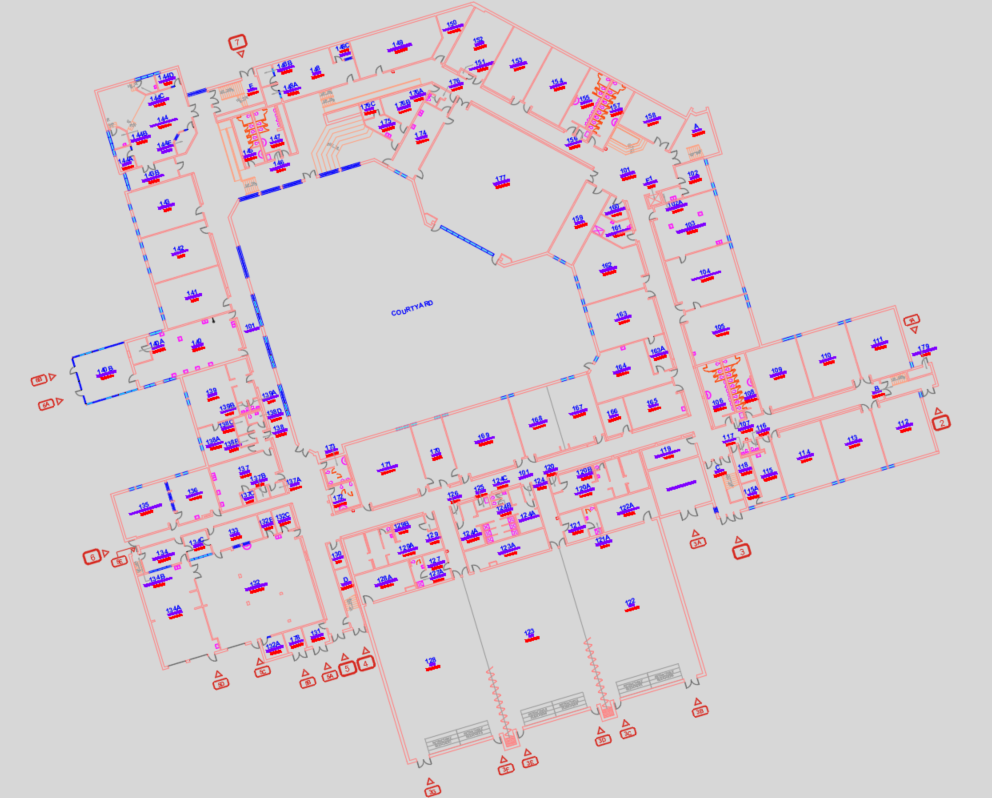
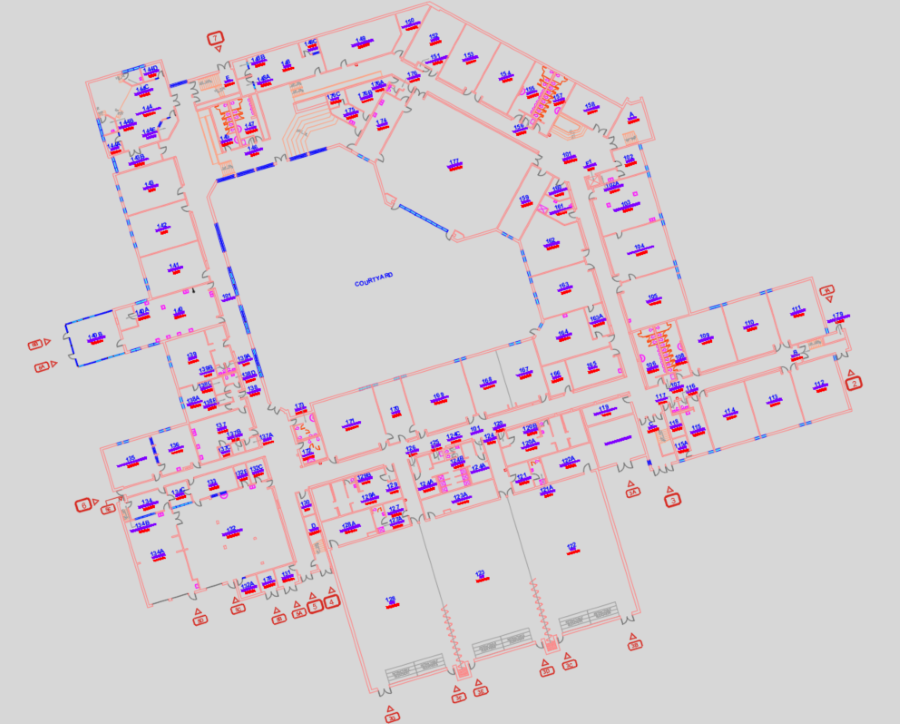
responsive updates

diff --git a/style.css b/style.css
@@ -293,6 +293,22 @@ p, .left2 ol li, .right1 ol li, .left2 ul li, .right1 ul li {
   text-decoration: none;
 }
 
+.left1 .View {
+  margin-left: auto;
+  margin-right: auto;
+  width: 100%;
+  display: flex;
+  justify-content: center;
+  flex-wrap: wrap;
+  padding: 10px;
+}
+
+.left1 .View img {
+  width: 100%;
+  margin: 5px;
+}
+
+
 .hero1 .right1{
   text-align: justify;
   background-color: #C4D7B2;
@@ -323,41 +339,67 @@ p, .left2 ol li, .right1 ol li, .left2 ul li, .right1 ul li {
 }
 
 .right2 .View, .right2 h2 {
- /* margin-left: 50px; */
+ margin-left: 50px;
  text-decoration: none;
- margin-left:auto;
- margin-right: auto;
- /* border: 2px solid black; */
- width: 100%;
- padding: 5px;
 }
 
-.right2 .View img{
+/* .right2 .View img{ */
   /* height: 500px;
   width: 800px; */
-  width: 100%;
+  /* width: 100%;
   object-fit: contain;
+} */
+
+.right2 .View {
+  margin-left: auto;
+  margin-right: auto;
+  width: 100%;
+  display: flex;
+  justify-content: center;
+  flex-wrap: wrap;
+  padding: 10px;
+}
+
+.right2 .View img {
+  margin: 5px;
+  width: 100%;
 }
 
 
-@media screen and (max-width: 768px) {
+/* TABLET */
+@media screen and (max-width: 1050px) {
+h2{
+  font-size: 20px;
+  font-weight: bold;
+  margin-top: 5px;
+}
+
+p, .left2 ol li, .right1 ol li, .left2 ul li, .right1 ul li {
+  margin-top: 10px;
+  font-size: 16px;
+}
+}
+
+/* PHONE */
+@media screen and (max-width: 850px) {
   .hero2, .hero1 {
     grid-template-columns: 100%; /* Change to single column layout */
     padding: 10px;
   }
+
   .left1 .View, .right2 .View {
     margin-left:auto;
     margin-right: auto;
-    /* border: 2px solid black; */
     width: 100%;
     border-radius: 10px;
- 
   }
 
   .left1 .View img, .right2 .View img {
     width: 100%;
     border-radius: 10px;
   }
+
+
 }
 
 /* shadowing for UDOT image / text */

diff --git a/html/methodology.html b/html/methodology.html
@@ -78,8 +78,9 @@
                 <h2><a href="https://arcg.is/1arOCP1" target="_blank"></a></h2>
 
                 
-                <div class="view">
-                    <img  src="../media/schoolnongeoref.png" alt="Not georeferenced building before"> 
+                <div class="View">
+                    <img src="../media/schoolnongeoref.png" alt="Not georeferenced building before"> 
+                    <br>
                     <img src="../media/schoolgeoref.png" alt="Georeferenced building after"> 
                 </div>
             </div>
